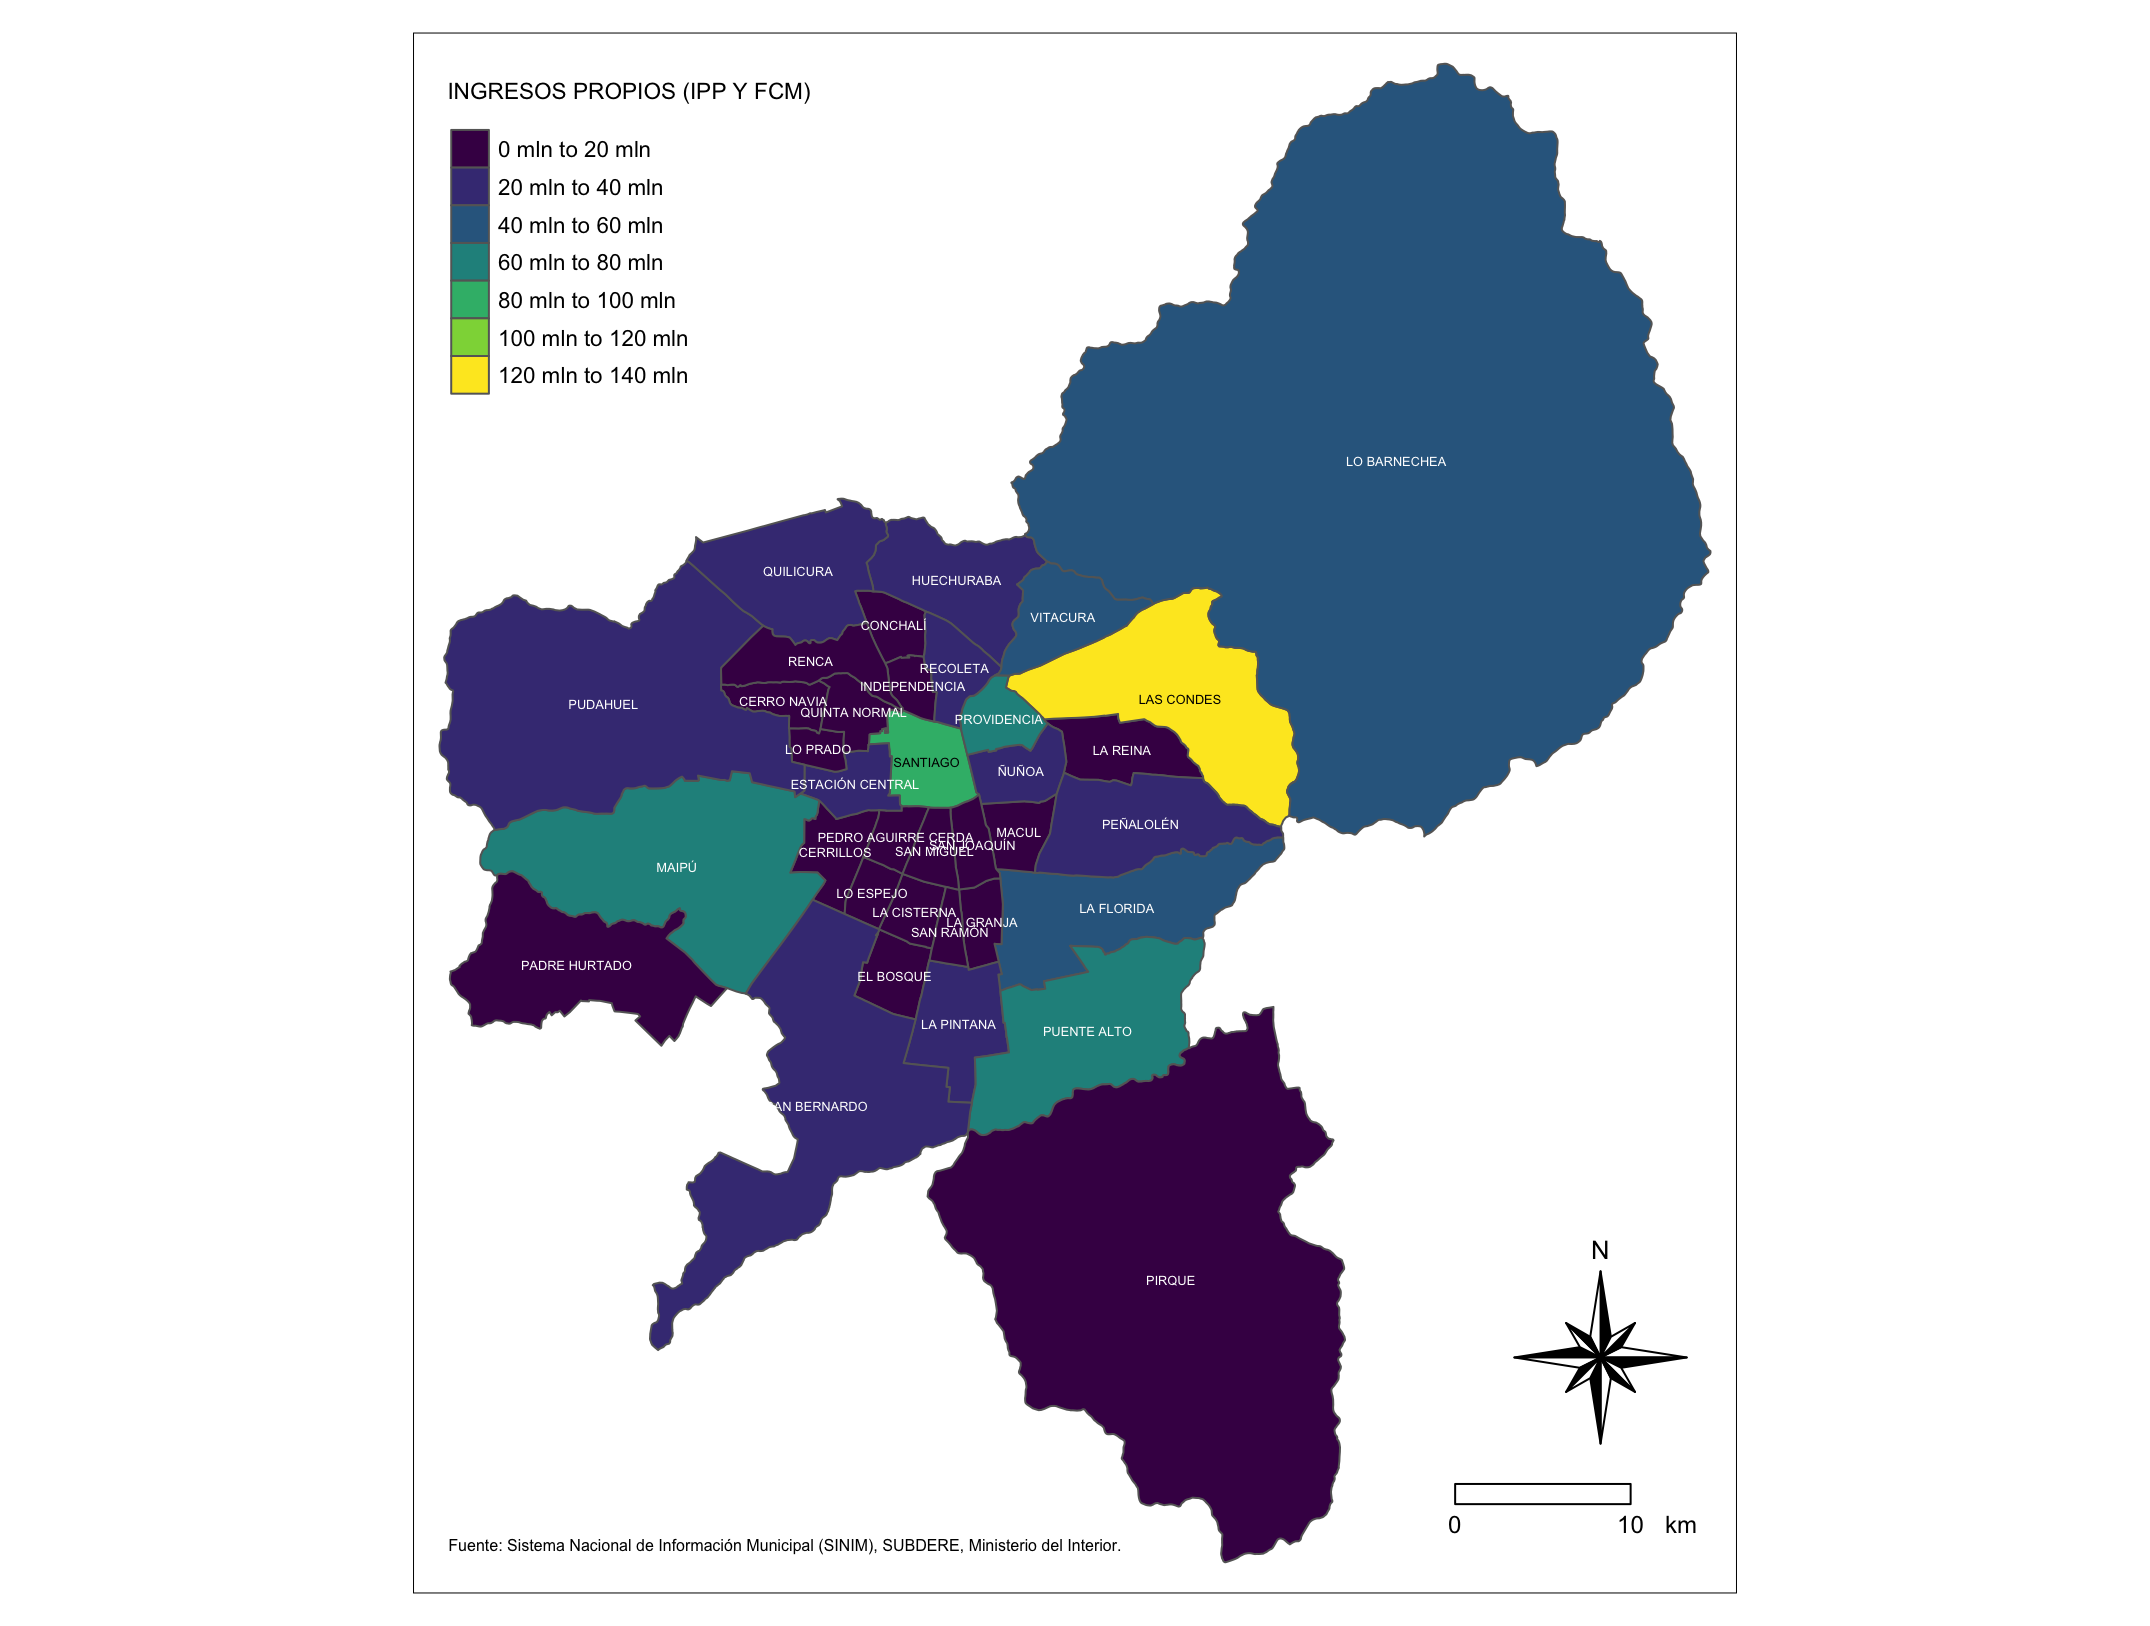
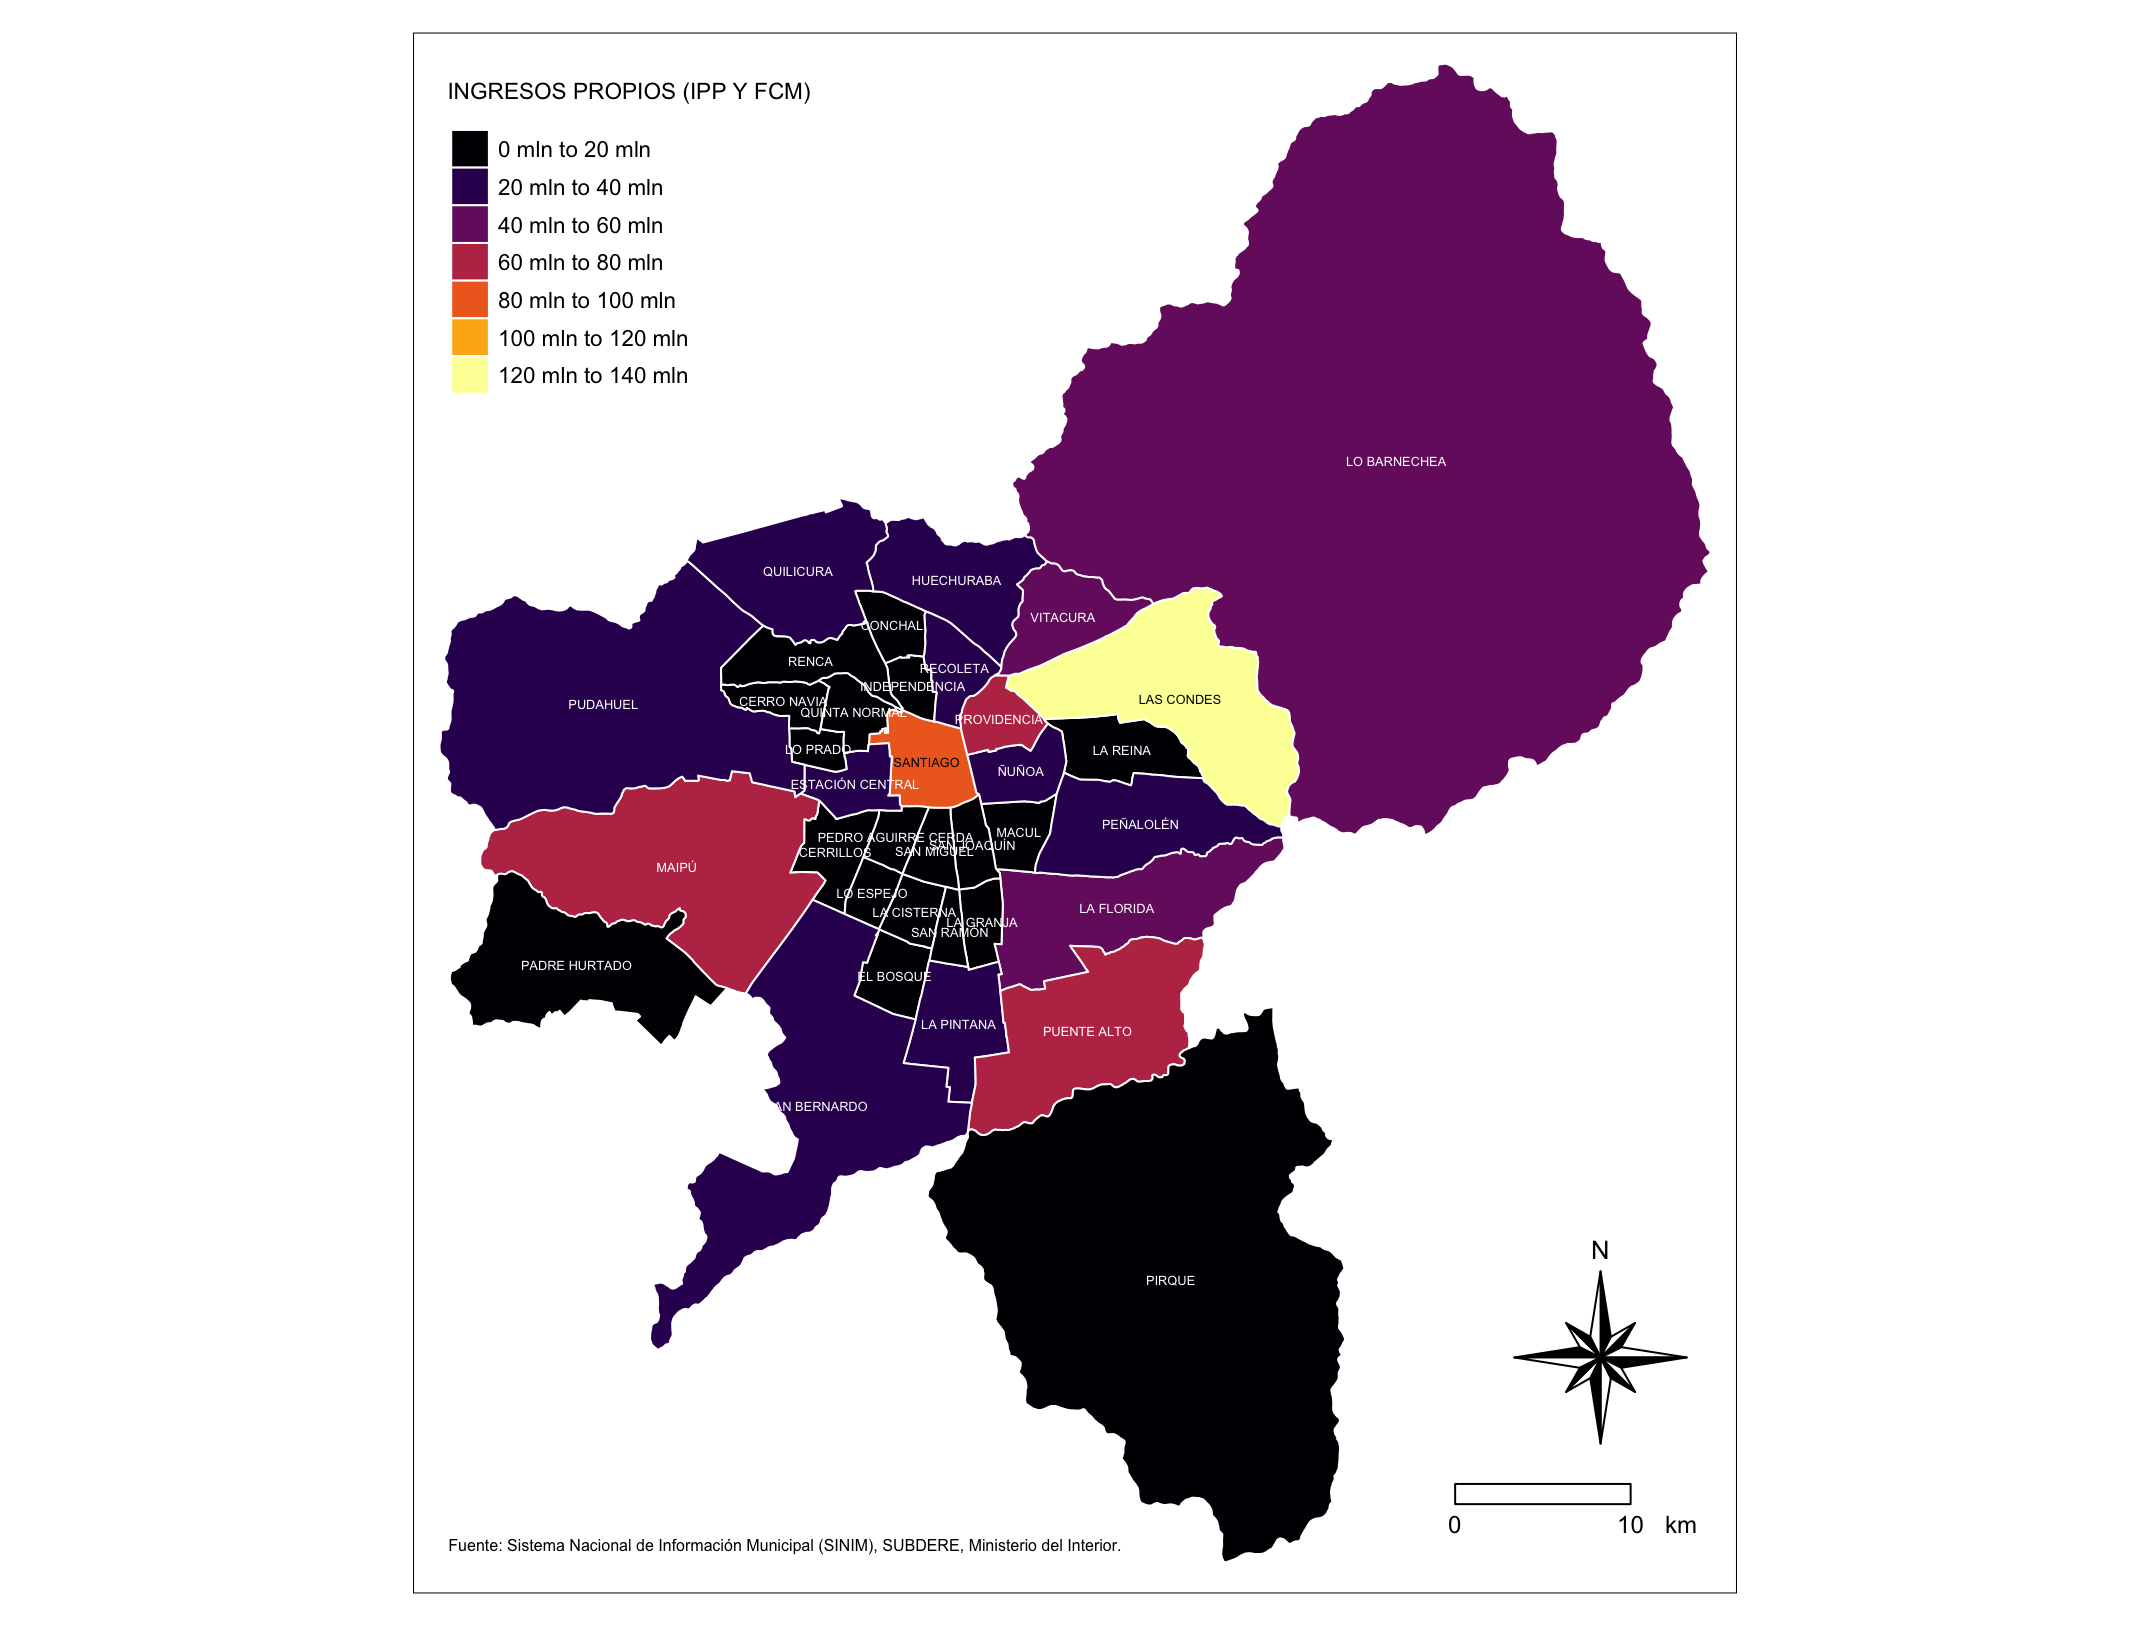
better colors

Changed region(s): [[0.187, 0.0308, 0.8102, 0.984], [0.187, 0.0615, 0.2493, 0.246]]

diff --git a/README.md b/README.md
@@ -209,12 +209,13 @@ var.reg13.join <- reg13 %>%
   right_join(var, by=c("CODE"))
 
 tm_shape(var.reg13.join) +
-  tm_polygons(names(var.reg13.join)[3], palette="viridis")+
-  tm_text(names(var.reg13.join)[2], size = 0.4,style="jenks") +
-  tm_legend(legend.position = c("left", "top")) +  
+  tm_polygons(names(var.reg13.join)[3], palette="inferno", border.col = "white") +
+  tm_text(names(var.reg13.join)[2], size = 0.4, style="jenks") +
+  tm_legend(legend.position = c("left", "top")) +
   tm_compass(type = "8star", position = c("right", "bottom")) +
   tm_scale_bar(breaks = c(0, 10), size = 0.75, position = c("right", "bottom"), width = 1) +
   tm_credits("Fuente: Sistema Nacional de Información Municipal (SINIM), SUBDERE, Ministerio del Interior.", position=c("left", "bottom"), size=0.5)
+
 ```
 
 ![](plot.png)
